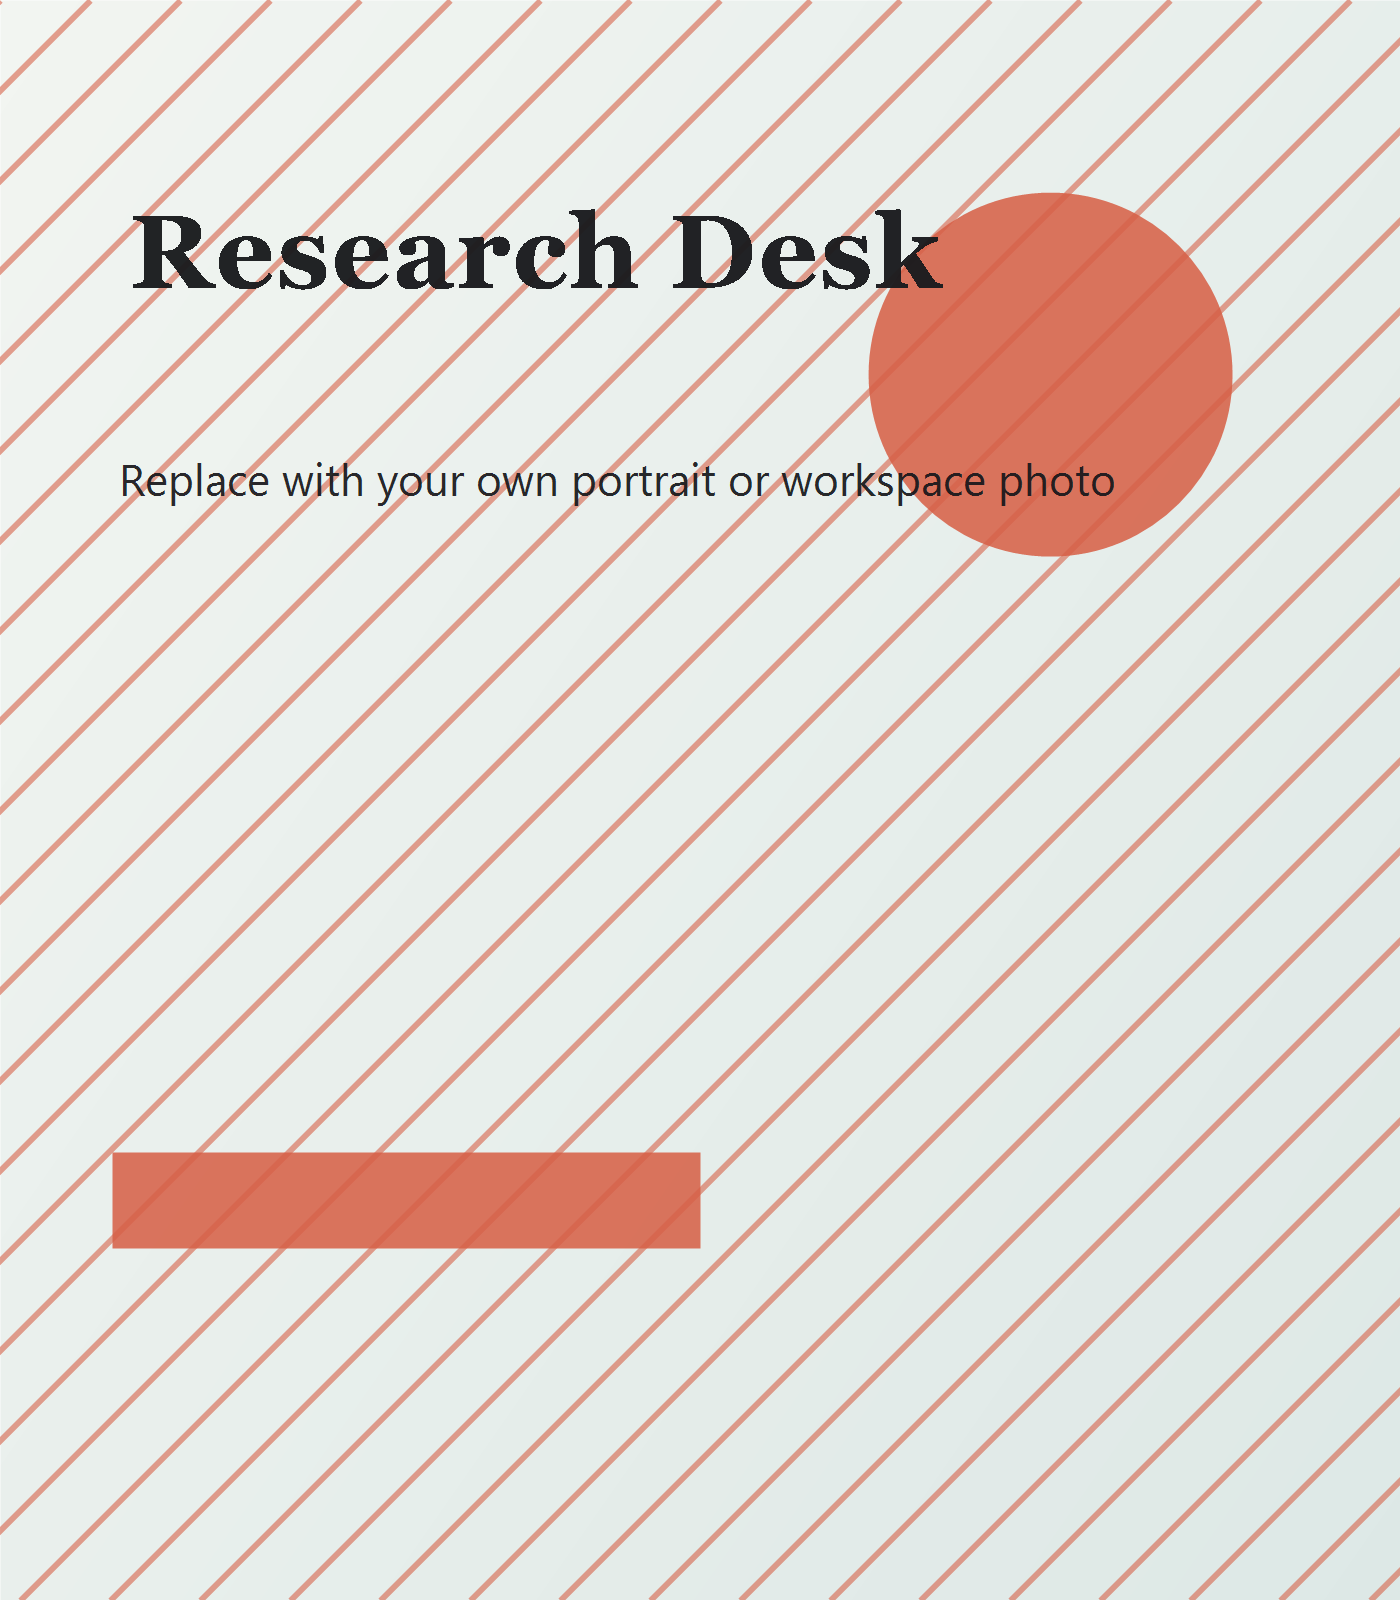
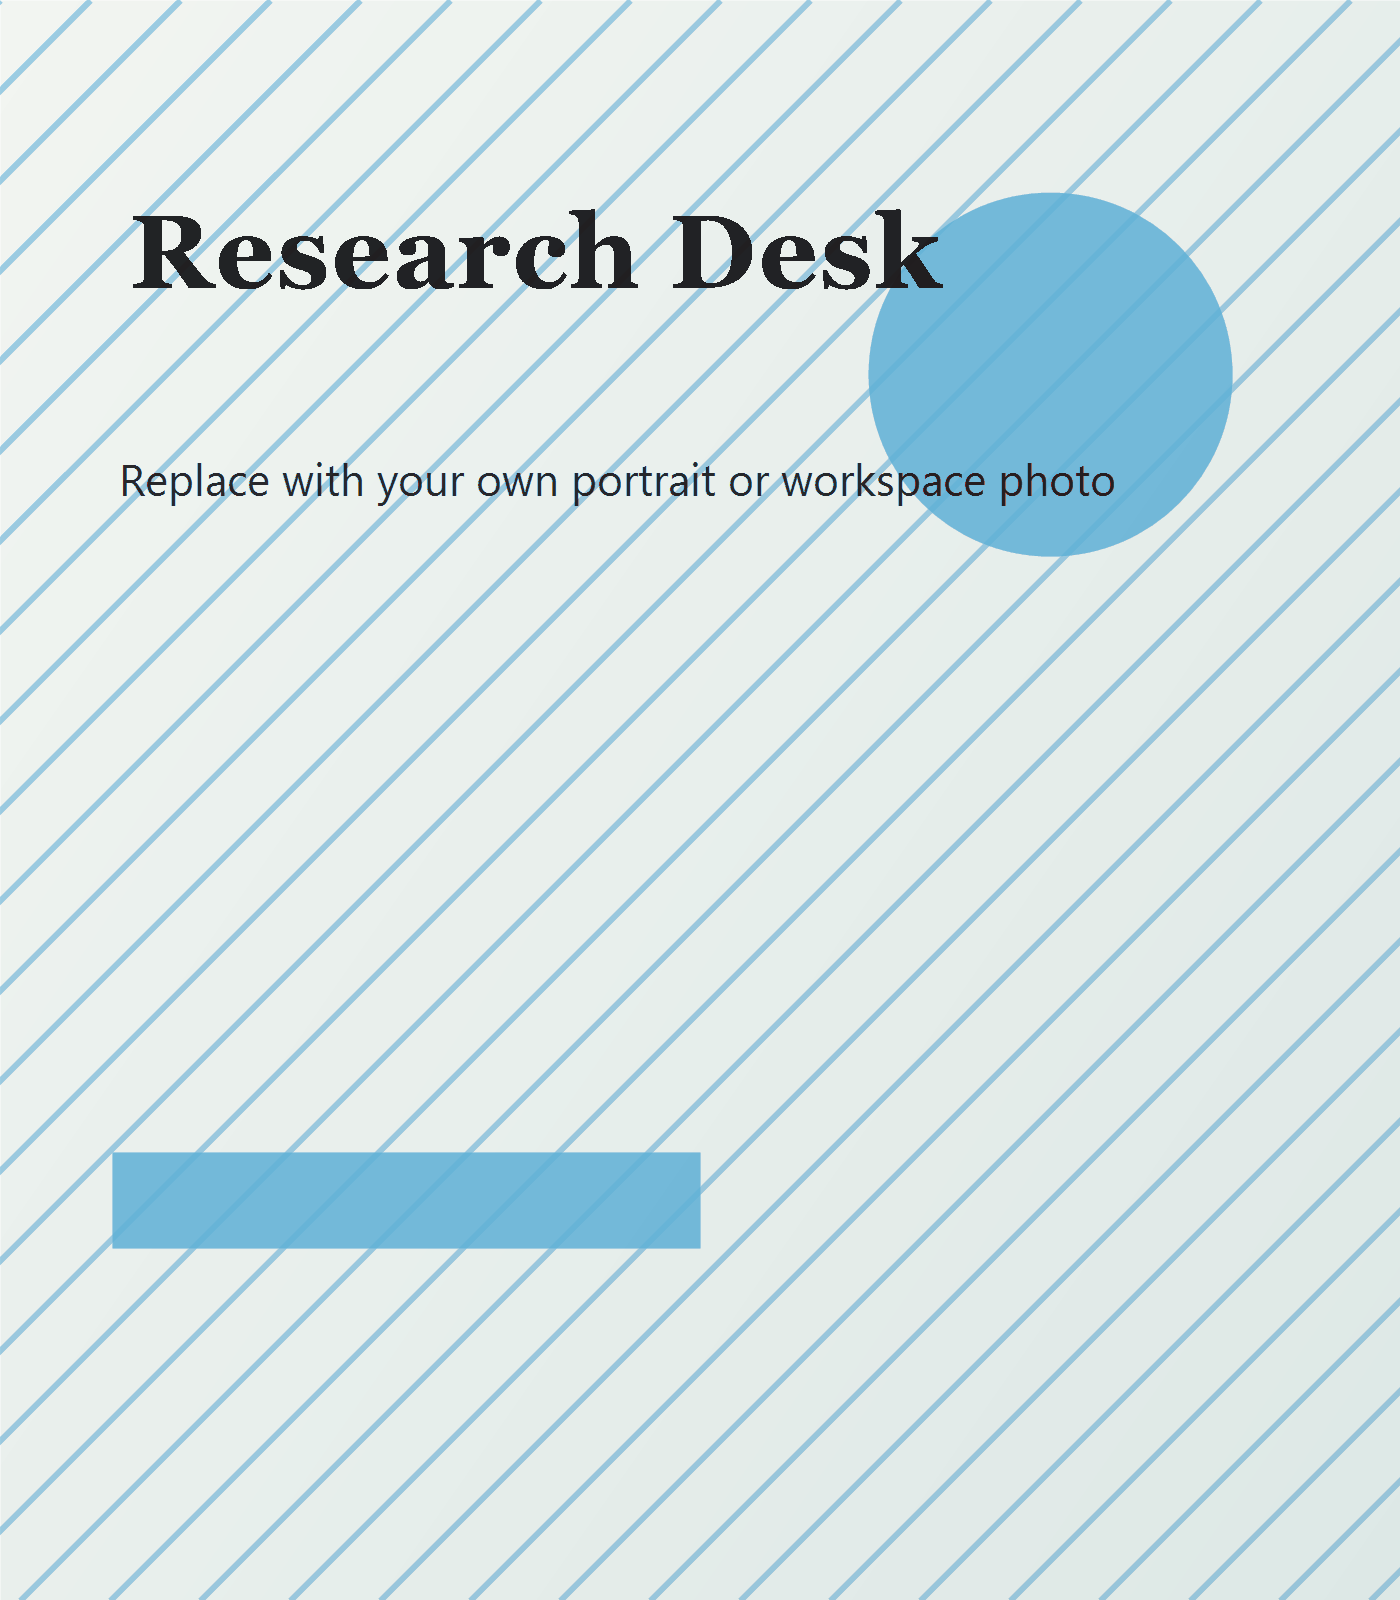
change color to blue

diff --git a/tailwind.config.ts b/tailwind.config.ts
@@ -7,13 +7,13 @@ const config: Config = {
     extend: {
       colors: {
         ink: '#17141f',
-        paper: '#fff7ed',
-        cloud: '#fffdf8',
-        coral: '#ff3e87',
-        teal: '#12b5cb',
-        moss: '#ffd166',
-        violet: '#7c3aed',
-        line: '#eadfce',
+        paper: '#f2fbff',
+        cloud: '#fbfdff',
+        coral: '#38bdf8',
+        teal: '#0ea5e9',
+        moss: '#bae6fd',
+        violet: '#2563eb',
+        line: '#d9edf8',
       },
       fontFamily: {
         sans: ['var(--font-sans)', 'Inter', 'Arial', 'sans-serif'],
@@ -22,7 +22,7 @@ const config: Config = {
         accent: ['var(--font-accent)', 'Sriracha', 'cursive'],
       },
       boxShadow: {
-        soft: '0 22px 70px rgba(63, 28, 96, 0.13)',
+        soft: '0 22px 70px rgba(14, 116, 144, 0.13)',
       },
     },
   },

diff --git a/src/app/globals.css b/src/app/globals.css
@@ -28,14 +28,14 @@ body {
   margin: 0;
   min-width: 320px;
   font-family: var(--font-sans);
-  background: #fff7ed;
+  background: #f2fbff;
   color: #17141f;
   text-rendering: optimizeLegibility;
   -webkit-font-smoothing: antialiased;
 }
 
 ::selection {
-  background: rgba(255, 62, 135, 0.22);
+  background: rgba(56, 189, 248, 0.28);
 }
 
 code,
@@ -80,7 +80,7 @@ samp {
 }
 
 .prose-site a {
-  color: #ff3e87;
+  color: #0284c7;
   text-decoration: underline;
   text-decoration-thickness: 1px;
   text-underline-offset: 4px;

diff --git a/src/app/layout.tsx b/src/app/layout.tsx
@@ -9,7 +9,7 @@ export const metadata: Metadata = {
 export const viewport: Viewport = {
   width: 'device-width',
   initialScale: 1,
-  themeColor: '#fff7ed',
+  themeColor: '#f2fbff',
 };
 
 export default function RootLayout({ children }: { children: React.ReactNode }) {

diff --git a/src/components/site-shell.tsx b/src/components/site-shell.tsx
@@ -36,7 +36,7 @@ export function SiteShell({ locale, children, rootMode = false, currentPath = '/
   };
 
   return (
-    <div className="min-h-screen overflow-x-hidden bg-paper text-ink [background:radial-gradient(circle_at_10%_4rem,rgba(255,62,135,0.18),transparent_26rem),radial-gradient(circle_at_86%_7rem,rgba(124,58,237,0.14),transparent_24rem),radial-gradient(circle_at_70%_34rem,rgba(18,181,203,0.12),transparent_24rem),#fff7ed] dark:bg-[#17141f] dark:text-[#fff7ed] dark:[background:radial-gradient(circle_at_10%_4rem,rgba(255,62,135,0.2),transparent_26rem),radial-gradient(circle_at_86%_7rem,rgba(124,58,237,0.18),transparent_24rem),#17141f]">
+    <div className="min-h-screen overflow-x-hidden bg-paper text-ink [background:radial-gradient(circle_at_10%_4rem,rgba(56,189,248,0.2),transparent_26rem),radial-gradient(circle_at_86%_7rem,rgba(14,165,233,0.16),transparent_24rem),radial-gradient(circle_at_70%_34rem,rgba(125,211,252,0.18),transparent_24rem),#f2fbff] dark:bg-[#071827] dark:text-[#f2fbff] dark:[background:radial-gradient(circle_at_10%_4rem,rgba(56,189,248,0.2),transparent_26rem),radial-gradient(circle_at_86%_7rem,rgba(14,165,233,0.18),transparent_24rem),#071827]">
       <header className="sticky top-0 z-50 border-b border-line/80 bg-paper/88 backdrop-blur-xl dark:border-white/10 dark:bg-[#17141f]/90">
         <div className="mx-auto flex max-w-7xl items-center justify-between px-5 py-4 md:px-8">
           <Link href={localizedPath(locale, '/', rootMode)} className="group flex items-center gap-3">

diff --git a/src/features/home-page.tsx b/src/features/home-page.tsx
@@ -86,7 +86,7 @@ export function HomePage({ locale, rootMode = false }: HomePageProps) {
         </div>
       </section>
 
-      <section className="bg-[#fff0db] px-5 py-20 dark:bg-[#211b2f] md:px-8">
+      <section className="bg-[#e0f2fe] px-5 py-20 dark:bg-[#082f49] md:px-8">
         <div className="mx-auto max-w-7xl">
           <SectionHeading
             eyebrow={copy.featuredPapers}